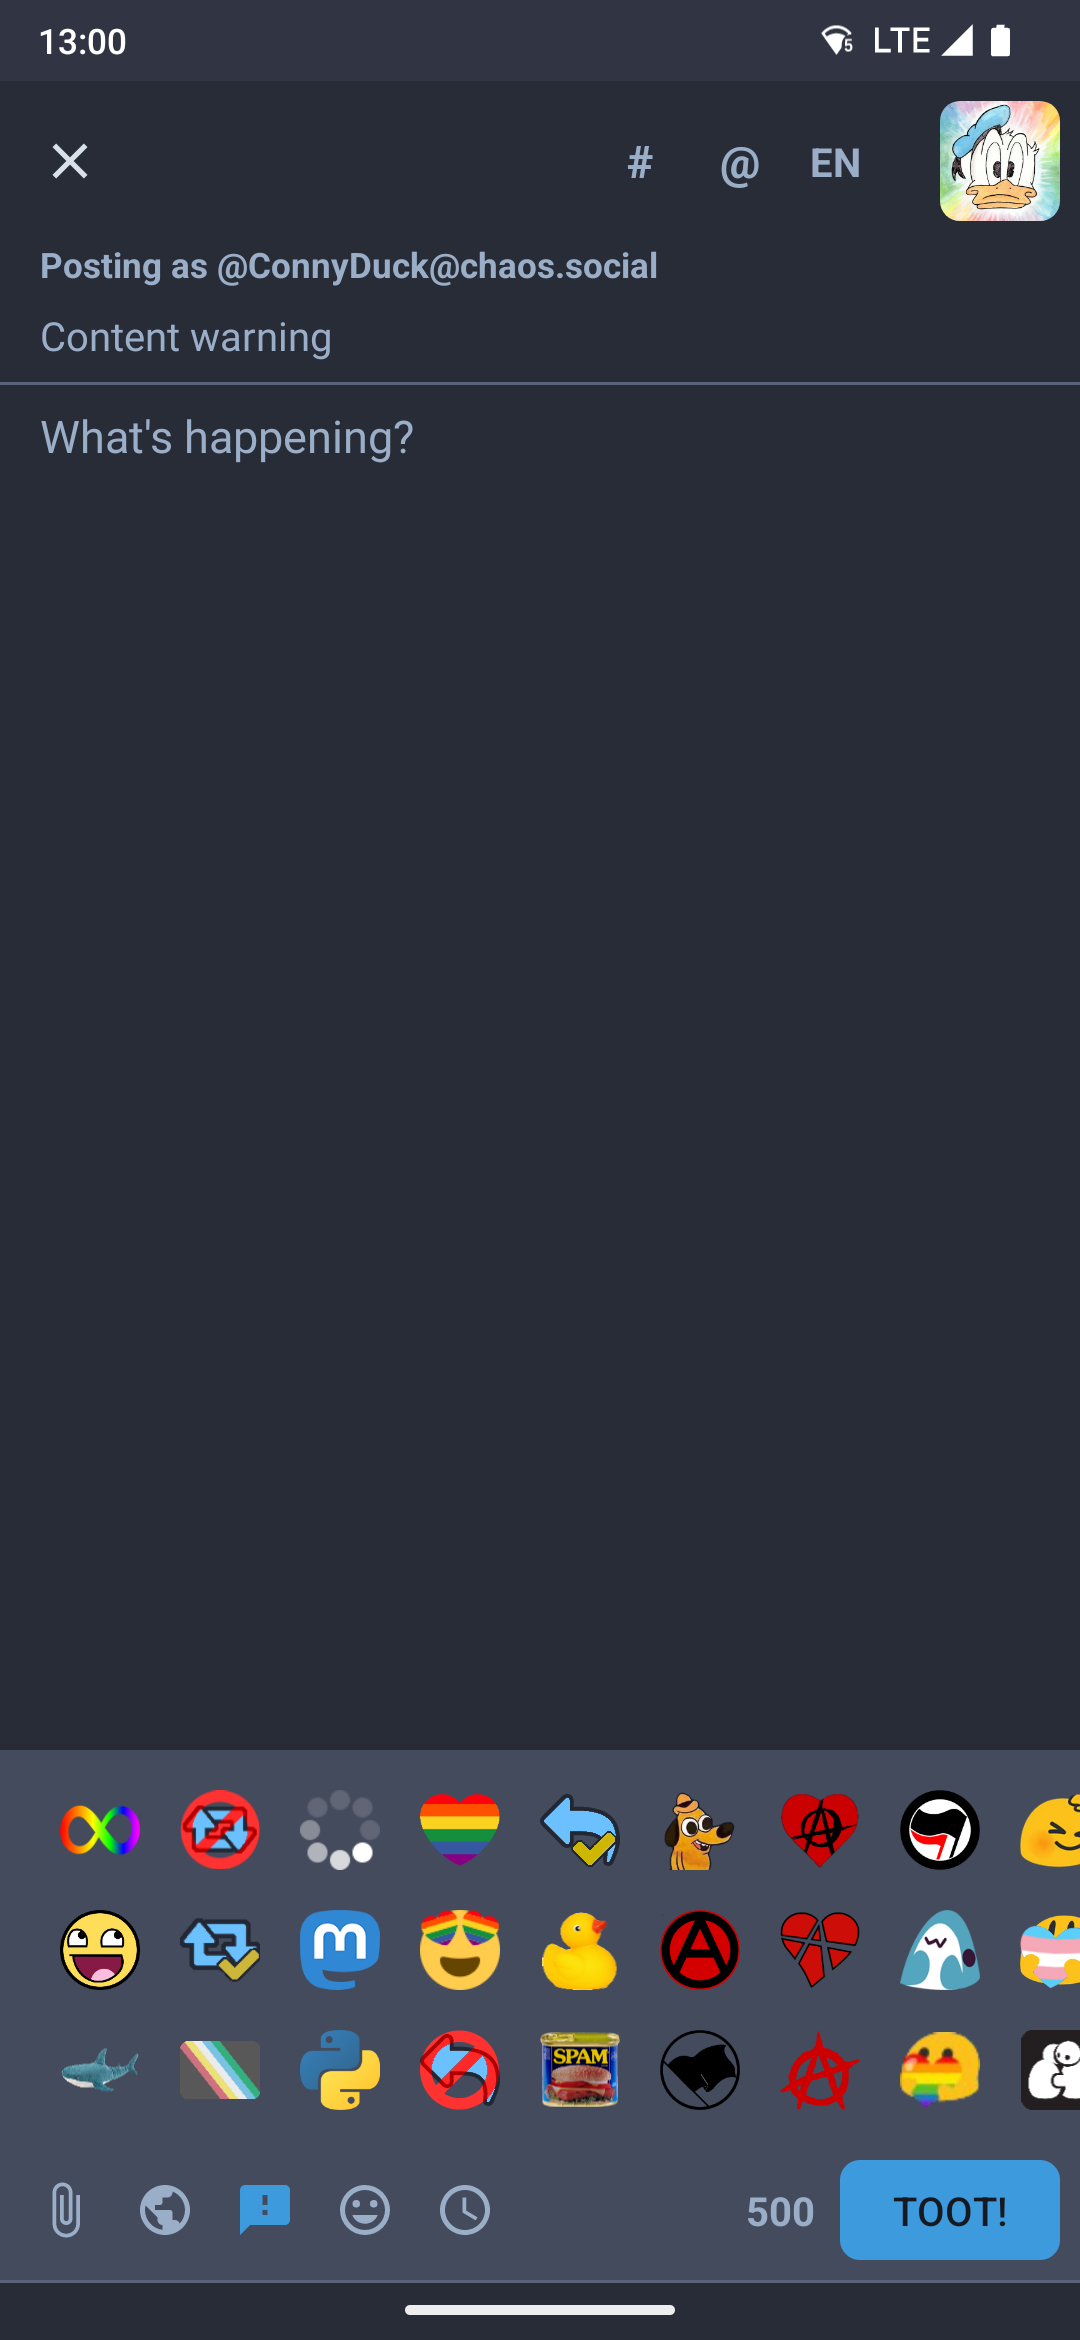
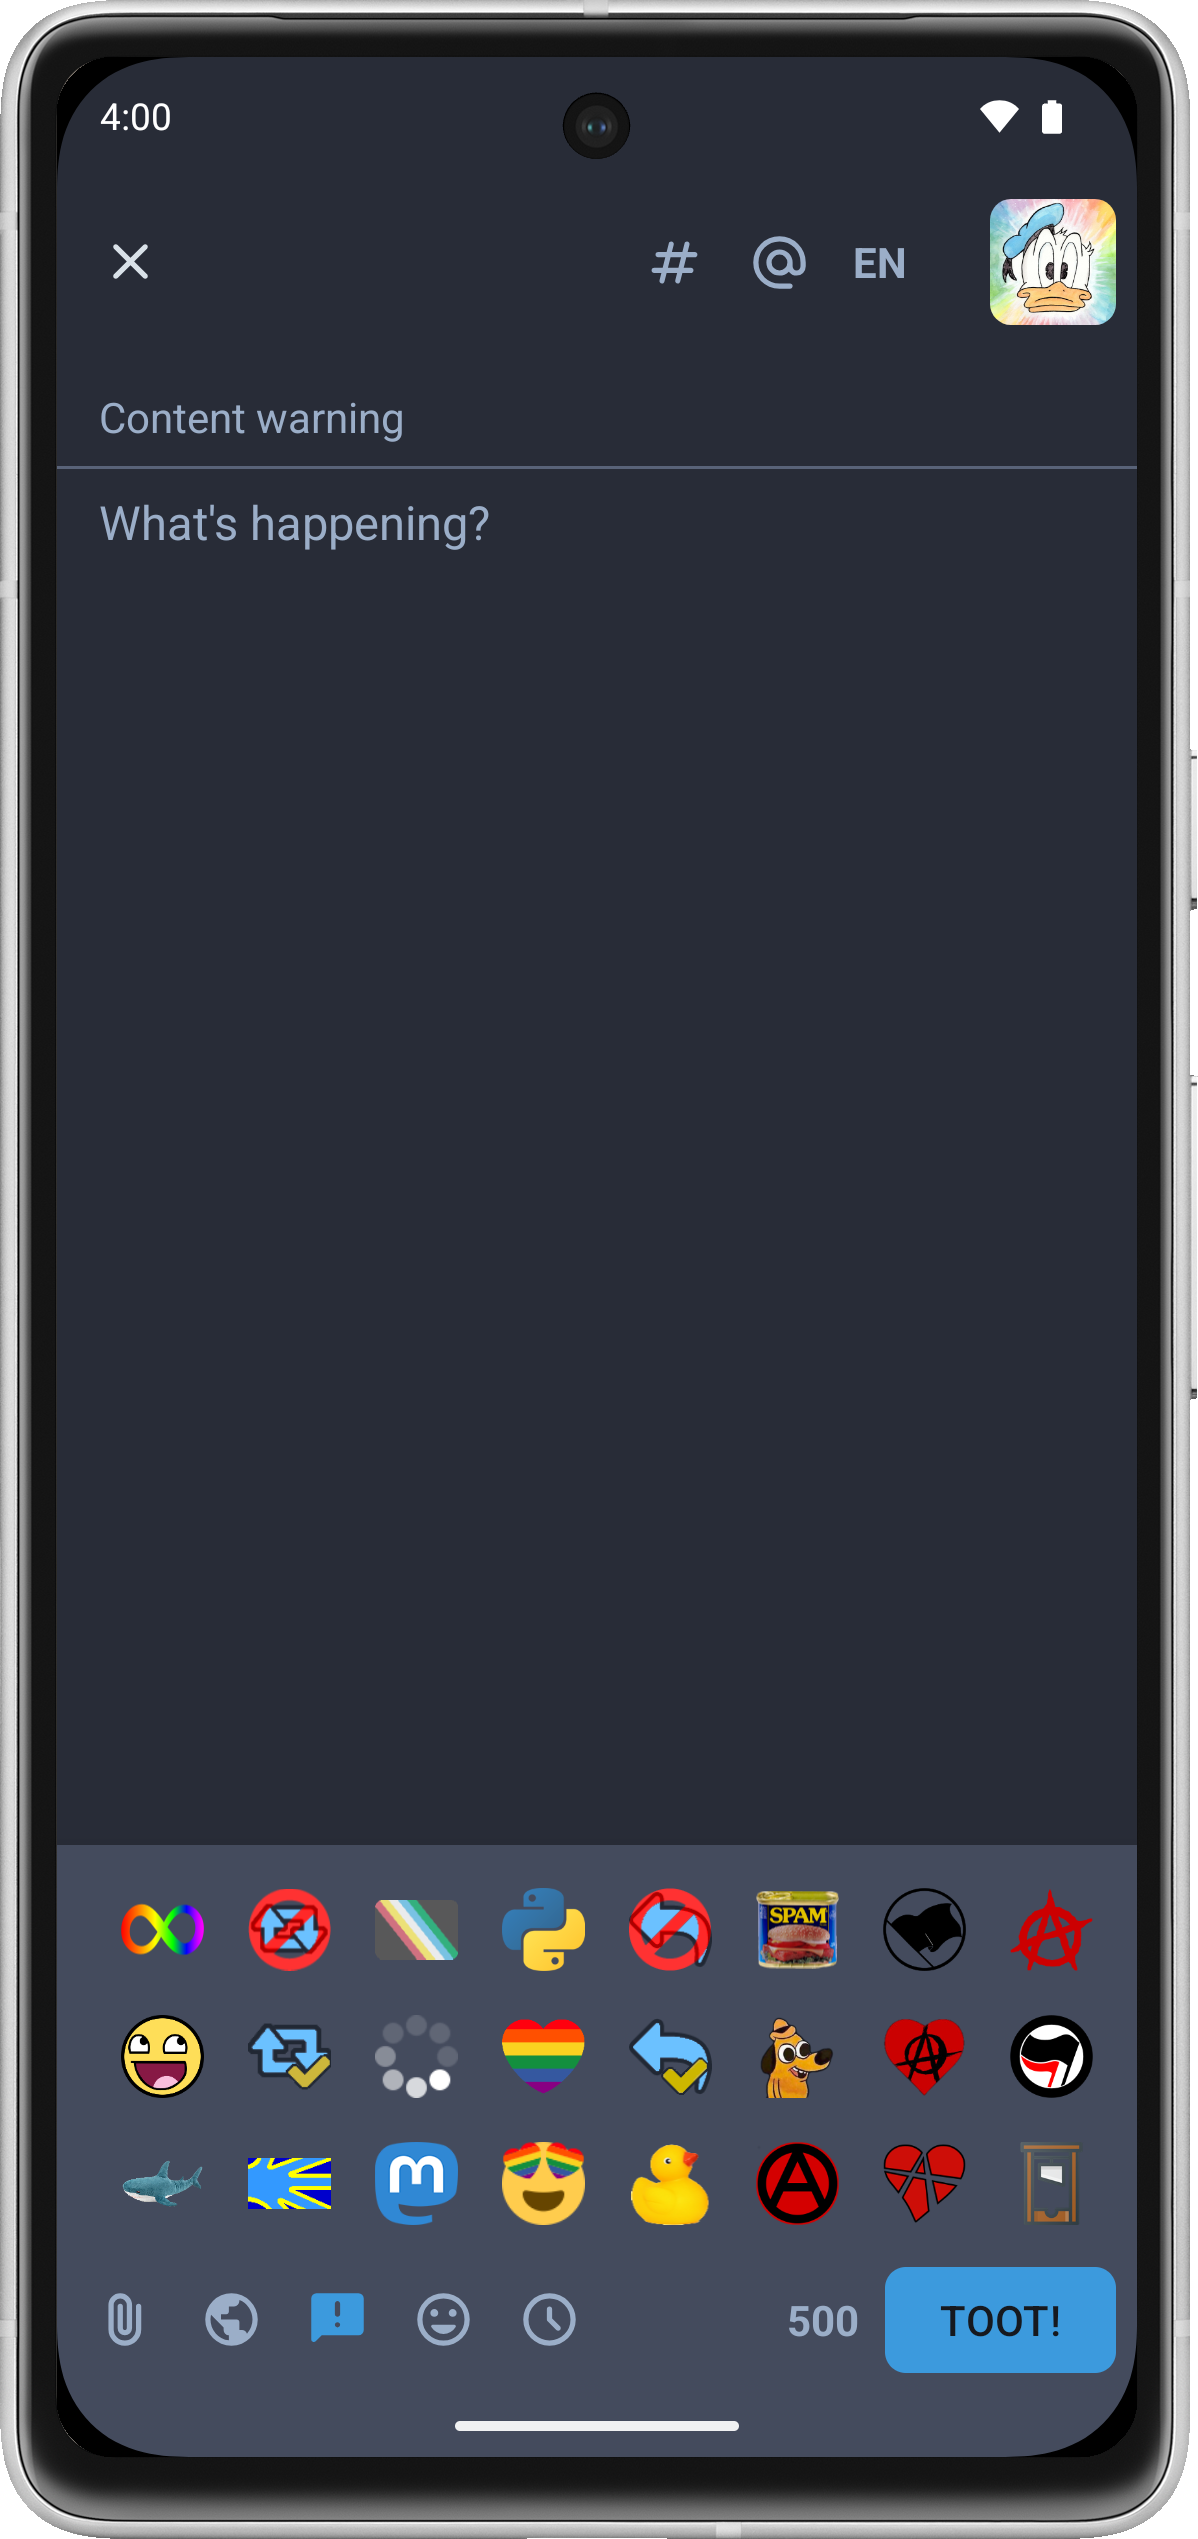
prepare release 132

Changed region(s): [[0.0, 0.0, 1.0, 1.0], [0.7028, 0.0624, 0.7944, 0.1248], [0.6722, 0.0624, 0.7028, 0.0936]]

diff --git a/CHANGELOG.md b/CHANGELOG.md
@@ -6,6 +6,28 @@
 
 ### Significant bug fixes
 
+## v29.0
+
+### New features and other improvements
+
+- New iconset https://github.com/tuskyapp/Tusky/pull/5012
+- The layout of polls has been improved and a "show results" button was added https://github.com/tuskyapp/Tusky/pull/4980 https://github.com/tuskyapp/Tusky/pull/5047 https://github.com/tuskyapp/Tusky/pull/5095
+- Support for the "blur" filter action (Mastodon 4.4 feature) https://github.com/tuskyapp/Tusky/pull/5038
+- The quality of the image viewer has been improved https://github.com/tuskyapp/Tusky/pull/5068 https://github.com/tuskyapp/Tusky/pull/5067
+- An additional dialog will now prevent accidentally dismissing the media caption dialog https://github.com/tuskyapp/Tusky/pull/4999
+- Tusky will now send a `delete_media` parameter when deleting a post to help servers clean up their media faster (Mastodon 4.4 feature) https://github.com/tuskyapp/Tusky/pull/5082
+- Boosts and favorites are now confirmed via a bottom sheet instead of a drop down https://github.com/tuskyapp/Tusky/pull/5084
+- All account list views now have better error handling https://github.com/tuskyapp/Tusky/pull/5028
+- Support for Android 16 https://github.com/tuskyapp/Tusky/pull/5071
+- Several internal code improvements https://github.com/tuskyapp/Tusky/pull/5036 https://github.com/tuskyapp/Tusky/pull/5094 https://github.com/tuskyapp/Tusky/pull/5055 https://github.com/tuskyapp/Tusky/pull/5024
+- Improved localizations
+
+### Significant bug fixes
+
+- caches are now correctly deleted when logging out https://github.com/tuskyapp/Tusky/pull/4997 https://github.com/tuskyapp/Tusky/pull/5004
+- several layout fixes on Android 15+ https://github.com/tuskyapp/Tusky/pull/5053 https://github.com/tuskyapp/Tusky/pull/5041 https://github.com/tuskyapp/Tusky/pull/5003
+- fixes a crash that occurs when Tusky is used on a device with two or more UnifiedPush providers https://github.com/tuskyapp/Tusky/pull/5015
+
 ## v28.0
 
 ### New features and other improvements
